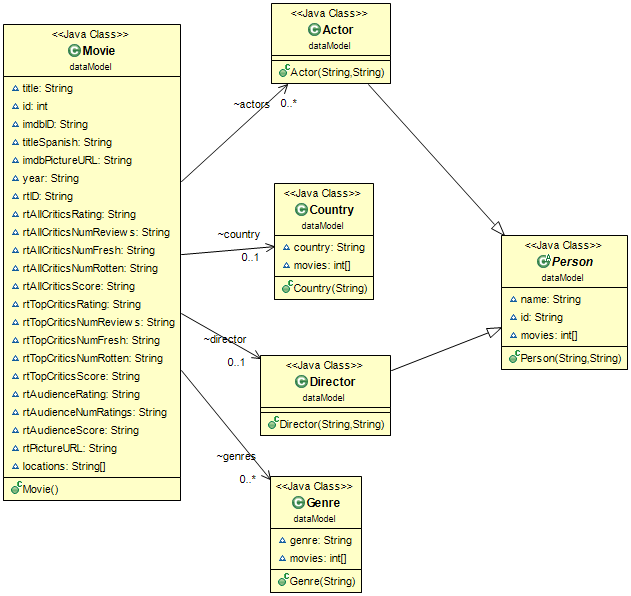
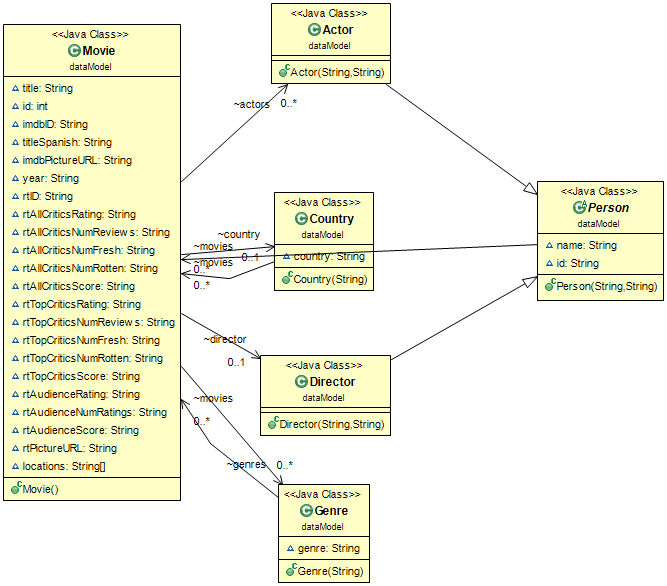
dataModel ArrayList
added dynamic lists for the interaction between the types of data

diff --git a/src/dataModel/Movie.java b/src/dataModel/Movie.java
@@ -1,5 +1,7 @@
 package dataModel;
 
+import java.util.ArrayList;
+
 public class Movie {
 	String title;
 	int id;
@@ -24,9 +26,8 @@ public class Movie {
 	String rtPictureURL;
 	Country country;
 	Director director;
-	//TO-DO rework the lists
-	Actor[] actors;
-	Genre[] genres;
+	ArrayList<Actor> actors;
+	ArrayList<Genre> genres;
 	String[] locations;
 
 }

diff --git a/src/dataModel/Person.java b/src/dataModel/Person.java
@@ -1,10 +1,11 @@
 package dataModel;
 
+import java.util.ArrayList;
+
 public abstract class Person {
 	String name;
 	String id;
-	//TO-DO decide the type
-	int[] movies;
+	ArrayList<Movie> movies = new ArrayList<Movie>();
 	
 	public Person(String n, String i ) {
 		

diff --git a/src/dataModel/Country.java b/src/dataModel/Country.java
@@ -1,10 +1,11 @@
 package dataModel;
 
+import java.util.ArrayList;
+
 public class Country {
 	
 	String country;
-	//TO-DO decide the type
-	int[] movies;
+	ArrayList<Movie> movies;
 	
 	public Country(String c) {
 		

diff --git a/src/dataModel/Genre.java b/src/dataModel/Genre.java
@@ -1,10 +1,11 @@
 package dataModel;
 
+import java.util.ArrayList;
+
 public class Genre {
 	
 	String genre;
-	//TO-DO decide the type
-	int[] movies;
+	ArrayList<Movie> movies;
 	
 	public Genre(String g) {
 		
